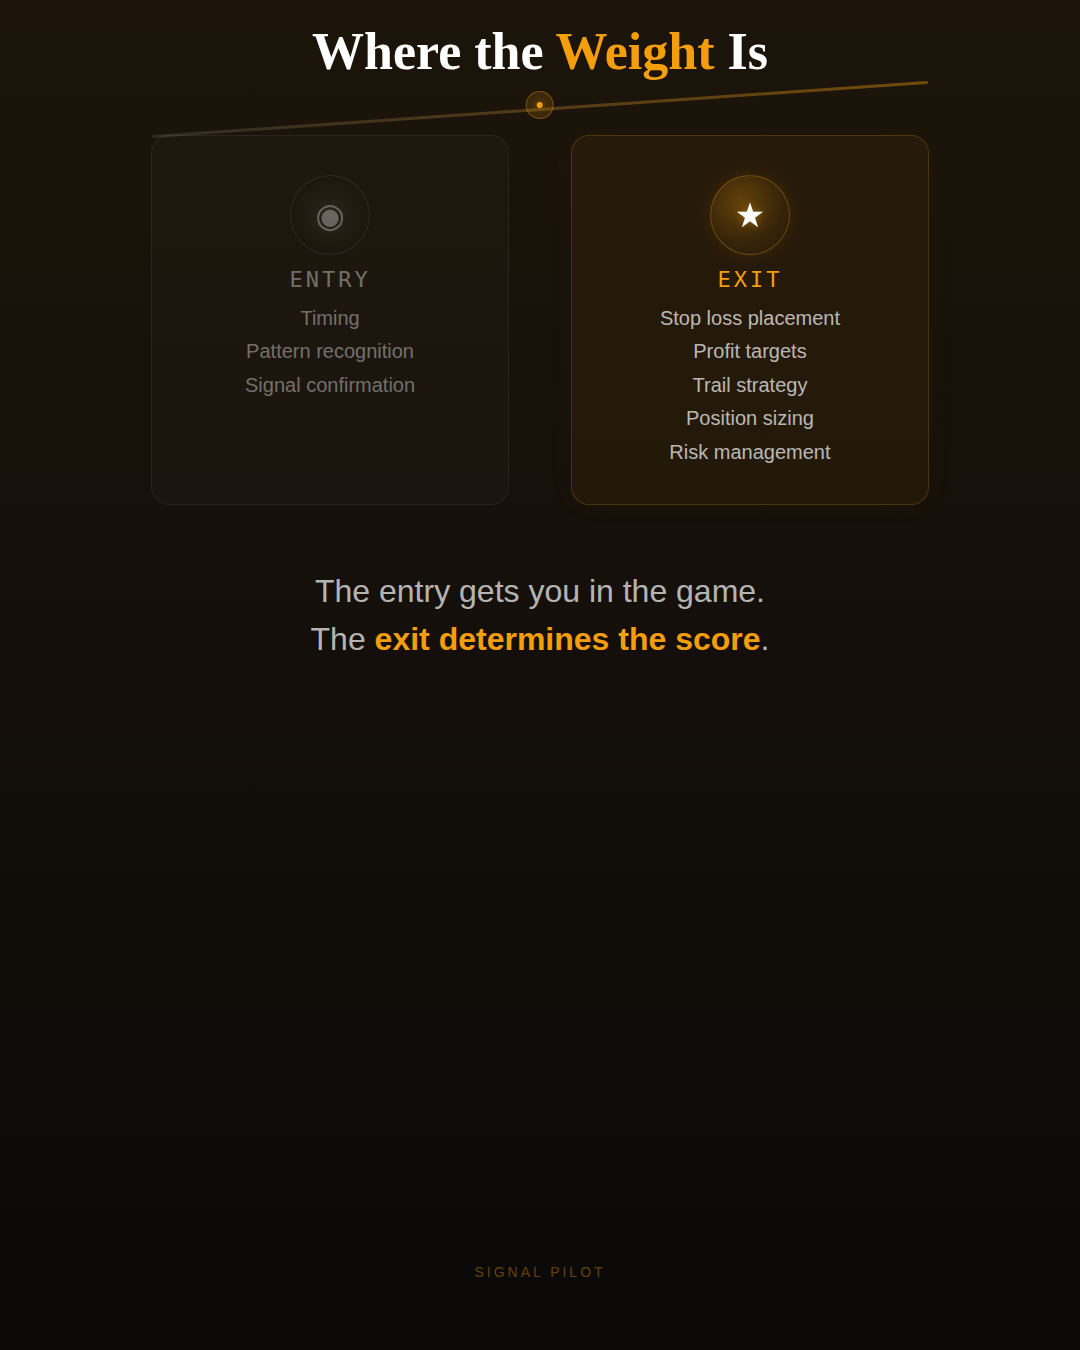
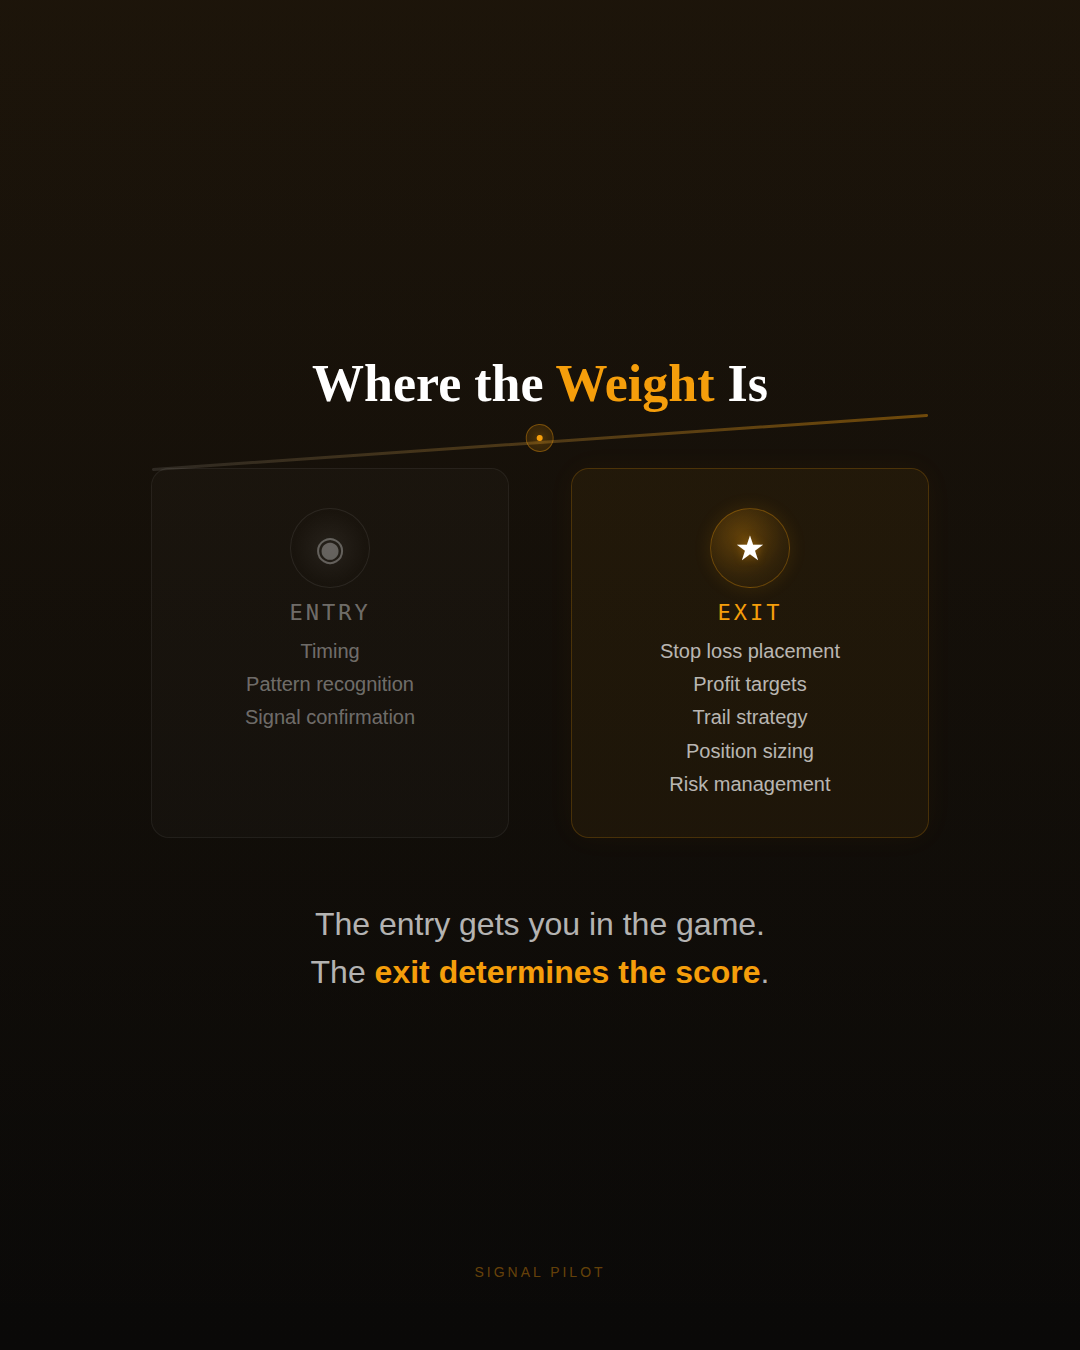
Center slides 2 & 4 on post-044, re-render all three today's posts (044, 046, 047)
https://claude.ai/code/session_01JdAyDtW3X2RhJAyPJGnP6R

diff --git a/INSTAGRAM_CONTENT_HUB/social/post-044/carousel.html b/INSTAGRAM_CONTENT_HUB/social/post-044/carousel.html
@@ -683,7 +683,7 @@
         <video class="video-bg" autoplay muted loop playsinline>
           <source src="../../assets/starfield.mp4" type="video/mp4">
         </video>
-        <div class="slide-content">
+        <div class="slide-content" style="justify-content: center !important;">
           <h2 class="section-title">The <em>Obsession</em></h2>
 
           <div class="obsess-block">
@@ -765,7 +765,7 @@
         <video class="video-bg" autoplay muted loop playsinline>
           <source src="../../assets/starfield.mp4" type="video/mp4">
         </video>
-        <div class="slide-content">
+        <div class="slide-content" style="justify-content: center !important;">
           <h2 class="section-title">Where the <em>Weight</em> Is</h2>
 
           <div class="scale-visual">
